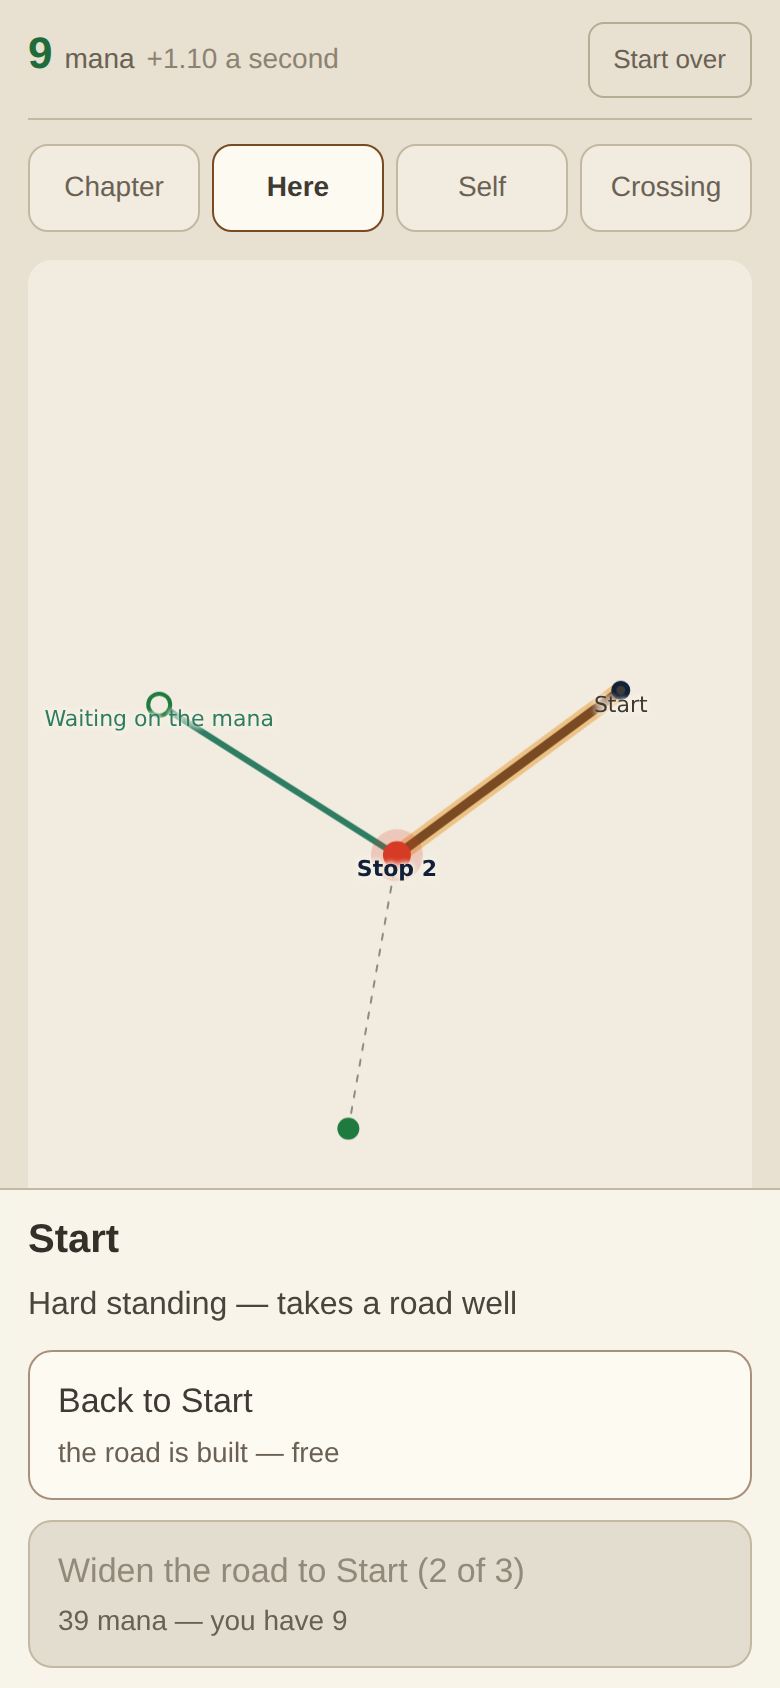
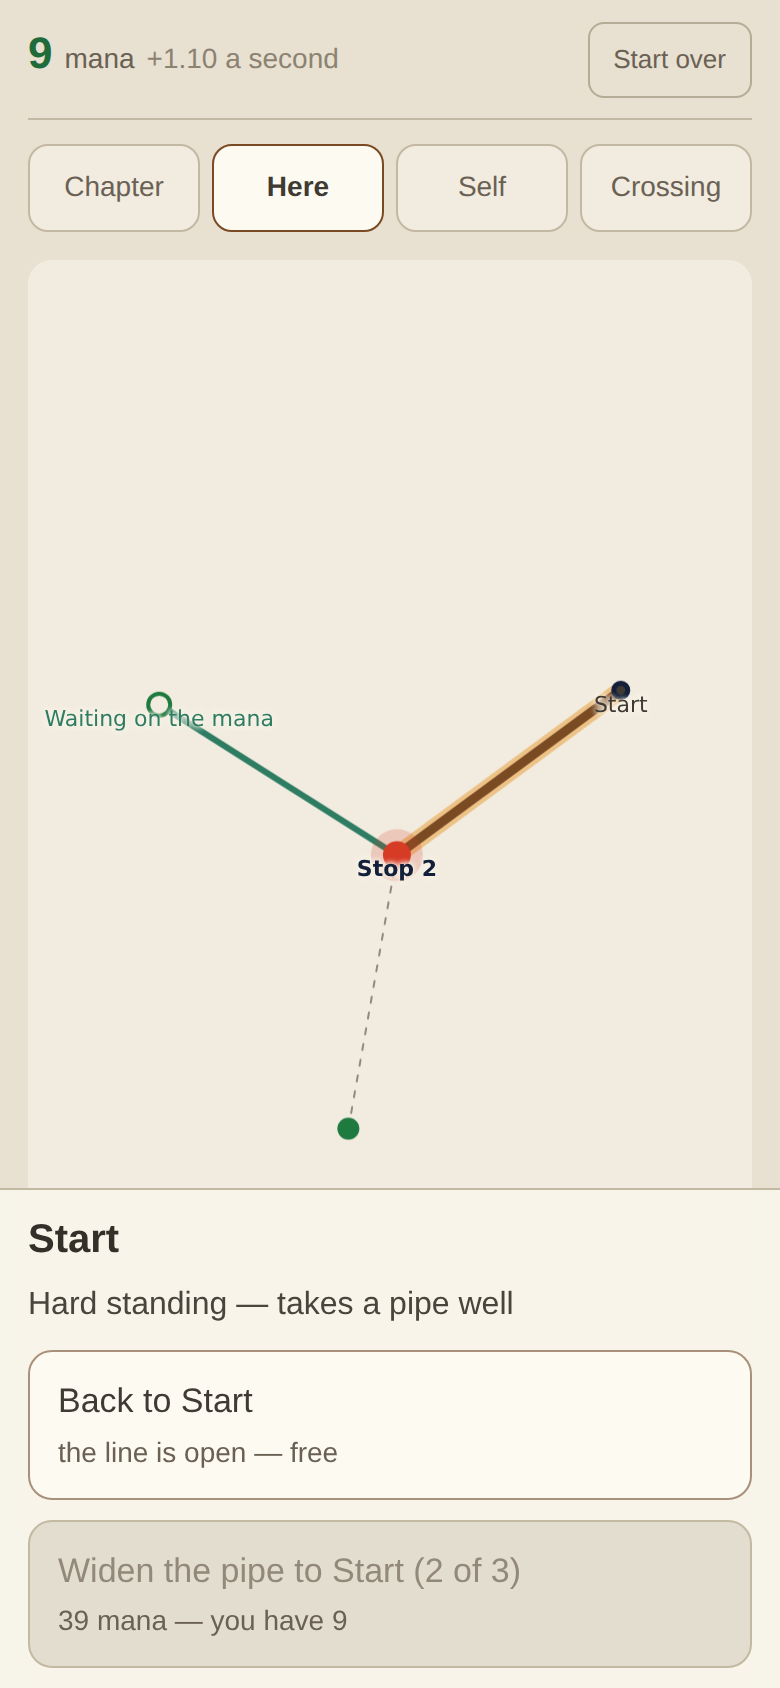
We lay pipes
The owner, correcting the call I flagged in the last commit: *"well like we also
do roads or paths when needed, but we lay pipes."*

So every string the player reads now says PIPE for the thing you lay. Roads and
paths stay — the game is called King's Roads, the king's road is a real object
in the fiction, and the crew builds roads when the ground needs them.

`scripts/check-words.mjs` learned the distinction rather than a blanket ban:

  "Lay the road to Stop 4"     → fails the build
  "Where the king's road ends" → passes

⚠ AND IT IMMEDIATELY EARNED ITS KEEP. After I had renamed what I thought was
every string, the gate found three more in `Game.svelte` markup that the rename
had walked straight past — "Lay a road…", "Laying road — 6s left", and "Tap a
stop beside it to lay road toward it". That is the fourth vocabulary turnover in
two days and the third time a word survived in a string nobody re-read; the only
reason it did not ship again is that the check reads Svelte text nodes.

---- RULE 4 ----------------------------------------------------------------

  "Lay the pipe to X" put back to "Lay the road to X"
    → RED  world.ts:238 says "road" for the thing you lay — that is a pipe
  and the same run with it restored
    → GREEN, with "Where the king's road ends and yours begins" untouched

Both halves matter: a rule that banned the word outright would have been red on
the game's own title, and I would have deleted it.
[…]

diff --git a/src/game/world.ts b/src/game/world.ts
@@ -80,7 +80,7 @@ const ground = (g: string): string => ({
   wood: 'Wood — has to be cleared before it is cut',
   crag: 'Crag — steep',
   water: 'Water — needs a ford or a bridge',
-  stone: 'Hard standing — takes a road well',
+  stone: 'Hard standing — takes a pipe well',
 }[g] ?? g);
 
 export const DOING = 'doing';
@@ -93,7 +93,7 @@ function doing(g: Game): Node {
     const far = x === g.at ? y! : x!;
     return {
       id: DOING, kind: 'doing',
-      name: g.building.to > 1 ? 'Widening the road' : 'Laying road',
+      name: g.building.to > 1 ? 'Widening the pipe' : 'Laying pipe',
       body: `Toward ${nameOf(far)}. ${Math.ceil(g.building.left)}s left. It keeps `
         + 'going while the game is closed.',
     };
@@ -145,19 +145,19 @@ export function self(g: Game): View {
         body: `Standing at ${at.name}. ${ground(at.ground)}.` },
       { id: stopId(g.at), kind: 'stop', name: at.name, body: ground(at.ground) },
       { id: 'carry:mana', kind: 'carry', name: `${g.mana} mana`,
-        body: 'Roads are the only thing that takes it. Walking a road you have '
-          + 'already built is free.' },
+        body: 'Pipe is the only thing that takes it. Walking a line you have '
+          + 'already opened is free.' },
       { id: 'stat:flow', kind: 'fact', name: perSec(manaRate(g)),
-        body: 'What the network actually delivers to where you stand. A road is a '
-          + 'pipe, and the narrowest one between here and the start governs the lot, so widening '
-          + 'a tight road is worth more than laying a slack one.' },
+        body: 'What the network actually delivers to where you stand. The narrowest '
+          + 'pipe between here and the start governs the lot, so widening a tight '
+          + 'one is worth more than laying a slack one.' },
       { id: 'stat:next', kind: 'fact',
         name: next ? `Next work: ${next.cost}` : 'Nothing left here',
         body: next
           ? `${buildSecs(g, next.to)}s. Price is how far it runs times how bad the `
             + 'ground is; what it CARRIES runs the other way — cheap ground is '
-            + 'narrow ground, and hard standing takes a road well.'
-          : 'Every road out of this stop is as wide as it goes.' },
+            + 'narrow ground, and hard standing takes a pipe well.'
+          : 'Every pipe out of this stop is as wide as it goes.' },
     ],
     edges: [
       { a: 'you', b: stopId(g.at), rel: 'stands' },
@@ -183,9 +183,9 @@ export function crossing(g: Game): View {
       { id: stopId(FINISH), kind: 'stop', name: 'Finish',
         body: done
           ? 'Joined. The chapter is crossed.'
-          : 'Not joined yet. One road end to end is the whole of it.' },
+          : 'Not joined yet. One line of pipe end to end is the whole of it.' },
       { id: 'stat:reach', kind: 'fact', name: `${lit.size} of ${STOPS.length} reached`,
-        body: 'Stops the mana can get to along road you have built.' },
+        body: 'Stops the mana can get to along pipe you have laid.' },
       { id: 'stat:done', kind: 'fact', name: done ? 'Crossed' : 'Not crossed',
         body: done
           ? 'A path runs start to finish. Done is done.'
@@ -228,14 +228,14 @@ export function deedsFor(g: Game, nodeId: string): Deed[] {
   const walk: Deed[] = r.built ? [{
     kind: 'go', to: id, why: r.why,
     label: r.seen ? `Back to ${r.name}` : `Go to ${r.name}`,
-    note: 'the road is built — free',
+    note: 'the line is open — free',
   }] : [];
   const why = unbuildable(g, id);
   return [...walk, {
     kind: 'build', to: id, why,
     label: r.gauge > 0
-      ? `Widen the road to ${r.name} (${r.gauge} of ${MAX_GAUGE})`
-      : `Lay the road to ${r.name}`,
+      ? `Widen the pipe to ${r.name} (${r.gauge} of ${MAX_GAUGE})`
+      : `Lay the pipe to ${r.name}`,
     note: why ?? `${r.cost} mana · ${buildSecs(g, id)}s · carries `
       + `${((r.gauge + 1) * r.bore).toFixed(2)} a second`,
   }];

diff --git a/src/ui/Game.svelte b/src/ui/Game.svelte
@@ -279,18 +279,18 @@
       {/each}
       {#if canArm}
         <button class="deed arm" class:armed={arming} onclick={() => (arming = !arming)}>
-          {arming ? 'Now tap the far stop' : 'Lay a road…'}
+          {arming ? 'Now tap the far stop' : 'Lay a pipe…'}
           <em>{arming ? 'or tap here again to cancel' : 'tap a stop beside this one'}</em>
         </button>
       {/if}
       <!-- The Here tab carries the countdown on a dot of its own, so saying it
            again underneath would be the same number twice on one screen. -->
       {#if game.building && chosen.id !== DOING}
-        <p class="note">Laying road — {Math.ceil(game.building.left)}s left.
+        <p class="note">Laying pipe — {Math.ceil(game.building.left)}s left.
           It keeps going while the game is closed.</p>
       {/if}
       {#if !deeds.length && chosen.id.startsWith('stop:') && numOf(chosen.id) === game.at}
-        <p class="note">You are here. Tap a stop beside it to lay road toward it.</p>
+        <p class="note">You are here. Tap a stop beside it to lay pipe toward it.</p>
       {/if}
     {:else if awayLine}
       <!-- What you missed while the phone was in a pocket. It sits where the

diff --git a/src/game/engine.ts b/src/game/engine.ts
@@ -175,7 +175,7 @@ export function reached(g: Game): Set<number> {
  *  words, or null. R3.3: a thing you cannot do shows its reason, never hides. */
 export function unbuildable(g: Game, to: number): string | null {
   const here = STOP.get(g.at);
-  if (!here?.near.includes(to)) return 'no road joins these';
+  if (!here?.near.includes(to)) return 'nothing joins these';
   if (g.building) return 'already building one';
   if ((g.gauge[roadKey(g.at, to)] ?? 0) >= MAX_GAUGE) return 'as wide as it goes';
   // ★ THE RULE THE OPENING IS FOR. Reported before the price, because you can
@@ -189,8 +189,8 @@ export function unbuildable(g: Game, to: number): string | null {
 /** Why you cannot walk to `to`, or null. Walking a laid road is always free. */
 export function blocked(g: Game, to: number): string | null {
   const here = STOP.get(g.at);
-  if (!here?.near.includes(to)) return 'no road joins these';
-  if (!((g.gauge[roadKey(g.at, to)] ?? 0) > 0)) return 'that road is not built yet';
+  if (!here?.near.includes(to)) return 'nothing joins these';
+  if (!((g.gauge[roadKey(g.at, to)] ?? 0) > 0)) return 'there is no pipe here yet';
   return null;
 }
 

diff --git a/test/roads.test.ts b/test/roads.test.ts
@@ -226,7 +226,7 @@ describe('★ a road must be built before it can be walked', () => {
   it('refuses the walk, and says why', () => {
     const g = initial();
     const to = STOP.get(START)!.near[0]!;
-    expect(blocked(g, to)).toBe('that road is not built yet');
+    expect(blocked(g, to)).toBe('there is no pipe here yet');
     expect(apply(g, { type: 'go', to })).toBe(g);
   });
 

diff --git a/docs/NEXT.md b/docs/NEXT.md
@@ -114,6 +114,55 @@ that this is the max-flow economy that was scrapped, wearing a better name.
 
 **Saves reset**: SAVE_VERSION 5, `built: string[]` became `gauge: Record<string, number>`.
 
+## ★★★ PIPES AND ROADS ARE TWO THINGS — 2026-08-02
+
+> *"well like we also do roads or paths when needed, but we lay pipes"*
+
+**Done:** the thing you lay is a PIPE, in every string the player reads, and
+`scripts/check-words.mjs` now fails the build on "road" standing in for it —
+while still passing "the king's road", which is real, and the game's own title.
+
+**⚠ OPEN, AND THE OWNER'S TO ANSWER: what makes a road NEEDED?** The sentence
+says roads and paths get built "when needed" and nothing in the game currently
+needs one. Two readings, and they are different games:
+
+  1. **A road is what lets you WALK.** Pipe carries mana; road carries you. Bad
+     ground makes walking slow or impossible until a path is cut, so some stops
+     are reachable by mana long before you can stand at them. This adds a second
+     network and a real reason to spend on something that earns nothing.
+
+  2. **A road is what some ground DEMANDS before a pipe can cross it.** A
+     causeway over bog, a bridge over water — an extra cost on hard terrain
+     rather than a network of its own.
+
+Reading 2 is nearly free and reading 1 is a second economy. Do not guess.
+
+### ★ THE CARTOGRAPHY PASS — asked for, not yet started
+
+> *"where are we with reusing maps code for us to render stuff like best
+> practices, then slap some fantasy and our own stuff on top"*
+
+**Where we are: nowhere, and it was a choice.** This was offered as an option on
+2026-08-02 and the owner picked full pipes instead, so it has never been started.
+
+⚠ **LICENSING, ESTABLISHED — do not re-derive it.** Organic Maps (the living
+fork of maps.me) is Apache-2.0 but requires derivative works to carry a visible,
+clickable link to organicmaps.app; its renderer is C++/OpenGL and nothing in it
+lifts into a canvas. **`openstreetmap-carto` is CC0, cartographic design
+included, with no attribution owed** — that is the one to take from.
+
+What is worth taking is CONVENTION, not code:
+
+- **Casing** — a road is a dark outline with a lighter core drawn over it. It is
+  the single biggest reason real map lines read as lines and ours read as
+  strokes, and it is about six lines in `Board.svelte`.
+- **Draw order as named layers** — landuse, water, contours, paths, roads,
+  labels. Ours is an accident of array order.
+- **Label collision** — the filed overlap bug (`Stop 15`/`Stop 16`) is this. Real
+  renderers place labels last and drop any that would collide.
+- **Dash vocabulary** — a footpath, a track and a road are told apart by dash
+  pattern, not colour.
+
 ## ★★★ THE MAP, ROUND TWO — 2026-08-02, later the same day
 
 Five more, in the owner's words. **E and F are corrections to shipped behaviour**

diff --git a/docs/DECISIONS.md b/docs/DECISIONS.md
@@ -1796,3 +1796,4 @@ Entries above this line are long because the one-line rule did not exist yet.
 - 2026-08-02 — **`TOL` now lists every ink the probe counts, and a test reads the probe to enforce it.** The contour-ink defect was a DECLARATION gap, not a distance one: the existing "every uncounted ink stays clear of every counted one" rule was correct and could not fire, because neither `relief` nor `moor` was in `TOL` and the pair was therefore never compared — while the probe counted both at its default net of 12.
 - 2026-08-02 — **A road is a pipe: gauge, bore, and income as max flow** (owner: *"maybe we are not laying roads, but laying like a mana ways like pipes… this way it's less boring and gives us more options"*, choosing full capacity/pressure over my recommendation to keep roads and add verbs elsewhere). `BORE` runs OPPOSITE to `GOING` — moor is cheap and narrow, stone is dear and wide — or the cheapest route would also be the best one and the choice would be theatre. The word stays "road": the owner picked the mechanics option, not the rename one.
 - 2026-08-02 — **The pipe economy is only allowed to exist while the board draws it.** A max-flow economy was built and scrapped on 2026-08-01; what was wrong with it was never the mathematics but that no player could guess it from the board. Gauge is drawn as road width and load as an underlay, and both are checked in the browser probe, not only in a unit test.
+- 2026-08-02 — **The thing you lay is a PIPE; roads and paths stay in the fiction** (owner: *"well like we also do roads or paths when needed, but we lay pipes"*). The word gate bans "road" for the laid thing but deliberately passes "the king's road" — the game is called King's Roads and the king's road is a real object in the world. What makes a road *needed* is undefined and is the owner's to answer; two readings are in `docs/NEXT.md` and they are different games.
